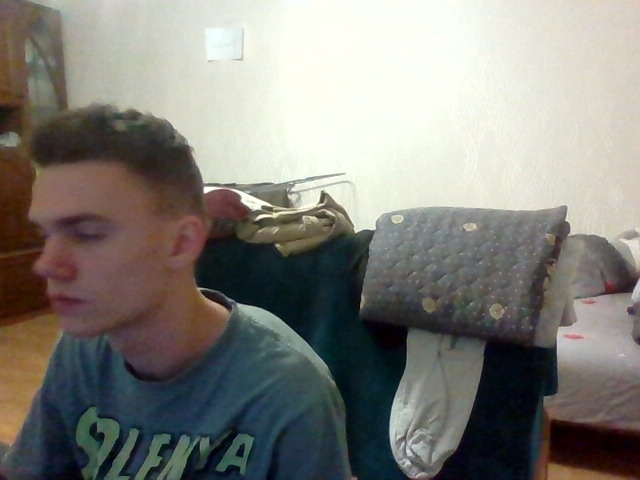
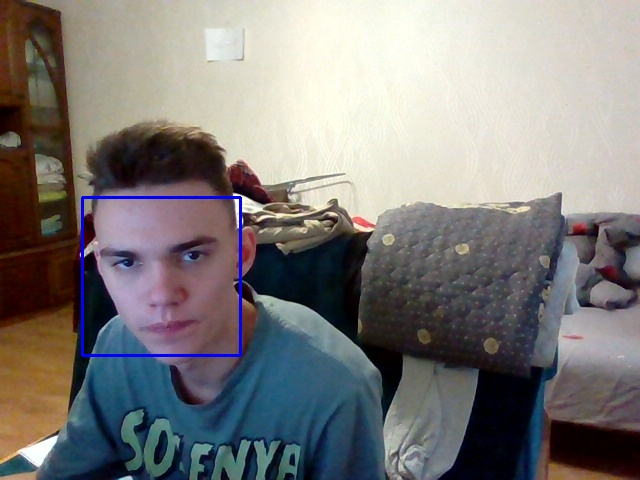
- исправлено окно авторизации: теперь не зависает при выключенном сервере
- добавлено уведомление ядра приложения охранника об потери сигнала от сервера

diff --git a/clientGuard/networkModule.py b/clientGuard/networkModule.py
@@ -16,10 +16,18 @@ import json
 
 class Socket(QObject, Thread):
     importData = pyqtSignal(QPixmap, QPixmap)
-    initUserInfo = pyqtSignal(bool) # результат авторизации пользователя
-    initCamerasInfo = pyqtSignal(bool)  # результы поиска разрешенных камер
 
+    # результат авторизации пользователя
+    initUserInfo = pyqtSignal(bool)
+
+    # результы поиска разрешенных камер
+    initCamerasInfo = pyqtSignal(bool)
+
+    # запрос ядру на принятие изображений с сервера
     startAcceptVideo = pyqtSignal()
+
+    # сообщаем ядру о потери соединения
+    disconnectServer = pyqtSignal()
 
     hVideo = 480
     wVideo = 640
@@ -68,7 +76,6 @@ class Socket(QObject, Thread):
                 # подготовка к принятию видео
 
                 # запускаем прием видео
-                # self.run()
                 self.startAcceptVideo.emit()
 
             else:
@@ -78,6 +85,7 @@ class Socket(QObject, Thread):
             # информиркем ядро приложения об результатах аутентификации
             self.initUserInfo.emit(False)
 
+    # получение изображений от сервера
     def run(self):
         # сообщаем об готовности принимать видео
         self.sendTextData("readyGetVideo")
@@ -86,32 +94,38 @@ class Socket(QObject, Thread):
         while self.__working:
             self.getDataServer()
 
-        print("Сетевой модуль выключен!")
+        print("Принятие изображений прекращено!")
 
     def getDataServer(self):
-        data = self.__clientSocket.recv(self.dataPackageSize + 10)  # self.dataPackageSize
-        # print(len(list(data)))
+        try:
+            data = self.__clientSocket.recv(self.dataPackageSize + 10)
+            data = list(data)
 
-        # data = self.waitDataImage()
+            if (len(data) != self.dataPackageSize):
+                print("потеря данных!")
 
-        data = list(data)
-        if (len(data) != self.dataPackageSize):
-            print("потеря данных!")
+                # запрос следующего изображения
+                self.sendTextData("Get")
+            else:
+                # print("accept!")
+                npImage = numpy.array(data).reshape(self.hVideo, self.wVideo, 3)
+                cv2.imwrite("img1.jpg", npImage)
+                cv2.imwrite("img2.jpg", npImage)
 
-            # запрос следующего изображения
-            self.sendTextData("Get")
-        else:
-            # print("accept!")
-            npImage = numpy.array(data).reshape(self.hVideo, self.wVideo, 3)
-            cv2.imwrite("img1.jpg", npImage)
-            cv2.imwrite("img2.jpg", npImage)
+                pix = QPixmap("img1.jpg")
 
-            pix = QPixmap("img1.jpg")
+                self.importData.emit(pix, pix)
 
-            self.importData.emit(pix, pix)
+                # сообщаем о том, что готовы к след. изображению
+                self.sendTextData("Get")
 
-            # сообщаем о том, что готовы к след. изображению
-            self.sendTextData("Get")
+        except:
+            print("соединение с сервером потеряно!")
+            # сообщаем ядру об потери соединения
+            self.disconnectServer.emit()
+
+            # прекращаем получение данных
+            self.__working = False
 
     def sendTextData(self, textMessage):
         self.__clientSocket.sendall(textMessage.encode("utf-8"))
@@ -125,21 +139,6 @@ class Socket(QObject, Thread):
                 break
             else:
                 return dataServer
-
-    def waitDataImage(self):
-        while True:
-            try:
-                data = self.__clientSocket.recv(self.dataPackageSize + 10)
-            except:
-                print("соединение разорвано2")
-                self.work = False
-                return
-
-            if not data:
-                print("not data!")
-                break
-            else:
-                return data
 
     def stop(self):
         self.__working = False

diff --git a/Server/socketServer.py b/Server/socketServer.py
@@ -109,8 +109,13 @@ class socketServer(QObject, Thread):
                 data = self.waitData(self.__GuardClients[-1].getSocket())
                 print(data)
                 if (data == "readyGetVideo"):
-                    cap = cameraClient("socket", "login")  # временно!
-                    cap.start()
+
+                    # _________временно!__________________
+                    cap = cameraClient("socket", "login")
+                    cap.start()  # запуск получения данных
+                    # добавление в спиское камер
+                    self.__CameraClients.append(cap)
+                    # ____________________________________
 
                     # оргнизация передача данных из камеры клиенту-охраннику в отдельном потоке
                     newSender = senderViideo(cap, self.__GuardClients[-1])
@@ -158,9 +163,20 @@ class socketServer(QObject, Thread):
 
     def __offClients(self):
         if (len(self.__GuardClients) > 0):
-            for i in range(len(self.__Clients)):
+            # разрушаем каждоного клиента
+            for i in range(len(self.__GuardClients)):
                 self.__GuardClients[i].remove()
-            self.__GuardClients.clear()  # очищаем список клиентов
+
+            # очищаем список клиентов
+            self.__GuardClients.clear()
+
+        if (len(self.__CameraClients) > 0):
+            # разрушаем каждоного клиента
+            for i in range(len(self.__CameraClients)):
+                self.__CameraClients[i].remove()
+
+            # очищаем список клиентов
+            self.__CameraClients.clear()
 
     def __closeSocket(self, socket):
         try:

diff --git a/Server/sendersData.py b/Server/sendersData.py
@@ -8,6 +8,8 @@ import cv2
 
 from Client import typeClient
 
+from processingImages import processingImage
+
 class senderViideo(QObject, Thread):
     disabled = pyqtSignal(str, int)  # информируем об разрыве соединения
 
@@ -32,8 +34,12 @@ class senderViideo(QObject, Thread):
         sys.exit()
 
     def sendImagesData(self):
-        # print("send")
         image = self.cap.read()
+
+        # сразу же обрабатываем изображение (так как уже в отдельном потоке)
+        image = processingImage(image)
+
+        # подгоняем под размер для интерфейса ПО охранника
         image = cv2.resize(image, dsize=(640, 480))
 
         # преобразуем в одномерный numpy массив
@@ -41,8 +47,8 @@ class senderViideo(QObject, Thread):
 
         try:
             self.__clientGuard.getSocket().send(outArr)
+        # соединение разорвано
         except:
-            print("соединение разорвано1")
             self.disabled.emit(str(self.__clientGuard.getLoginGuard()), typeClient.Guard.value)
 
     def waitData(self):
@@ -51,8 +57,8 @@ class senderViideo(QObject, Thread):
                 dataUser = self.__clientGuard.getSocket().recv(200)
                 dataUser = dataUser.decode("utf-8")
 
+            # соединение разорвано
             except:
-                print("соединение разорвано2")
                 self.disabled.emit(str(self.__clientGuard.getLoginGuard()), typeClient.Guard.value)
 
                 self.work = False

diff --git a/clientGuard/coreApplication.py b/clientGuard/coreApplication.py
@@ -4,6 +4,8 @@ from networkModule import Socket
 from PyQt5.QtCore import QObject, pyqtSignal
 from PyQt5.QtGui import QImage, QPixmap
 
+from PyQt5.QtWidgets import QMessageBox
+
 class Core(QObject):
     # run = pyqtSignal()
 
@@ -27,6 +29,10 @@ class Core(QObject):
         self.netModule.initUserInfo[bool].connect(self.authorizationUser)
         self.netModule.importData[QPixmap, QPixmap].connect(self.getDataServer)
         self.netModule.startAcceptVideo.connect(self.acceptVideo)
+        self.netModule.disconnectServer.connect(self.eventDisconnectServer)
+
+    def eventDisconnectServer(self):
+        self.guiApp.mainWin.eventDisconnectServer()
 
     def acceptVideo(self):
         print("start accept video!")
@@ -43,10 +49,13 @@ class Core(QObject):
             # закрываем окно авторизации
             self.guiApp.closeInitUserWin()
         else:
-            print("Неверный логин или пароль")
+            QMessageBox.about(self.guiApp.initUserWin, "ошибка аутентификации: ", "Неверный логин или пароль!")
 
     def autheUser(self, host, port, login, password):
-        self.netModule.connectServer(host, port, login, password)
+        try:
+            self.netModule.connectServer(host, port, login, password)
+        except:
+            QMessageBox.about(self.guiApp.initUserWin, "ошибка аутентификации: ", "Cервер по такому адресу не запущен!")
 
     def getDataServer(self, imagePeople, imageCar):
         self.guiApp.mainWin.updateVideoBarrier(imagePeople)

diff --git a/clientGuard/GUI_mainWindow.py b/clientGuard/GUI_mainWindow.py
@@ -4,6 +4,7 @@ from PyQt5 import QtGui, QtWidgets
 from PyQt5.QtWidgets import QHeaderView, QTableWidgetItem
 
 from PyQt5.QtCore import QTimer, QTime
+from PyQt5.QtCore import QSize
 
 from PyQt5.QtGui import QPalette, QBrush, QPixmap, QColor, QImage
 
@@ -70,8 +71,8 @@ class mainWindow(QtWidgets.QWidget, mainWindowUI.Ui_Form):
         
     def updateVideoBarrier(self, pix):
 
-        d = 0.7
-        pix = pix.scaled(pix.width() * d, pix.height() * d)
+        self.d = 0.7
+        pix = pix.scaled(pix.width() * self.d, pix.height() * self.d)
         self.videoPeopleLabel.setPixmap(pix)
         
     def updateTime(self):
@@ -108,7 +109,16 @@ class mainWindow(QtWidgets.QWidget, mainWindowUI.Ui_Form):
             self.openGate.emit()
             self.gate.Open()
             setStyleButton(self.openGateButton, [0, 200, 0], "Закрыть")
-            
-        
-        
-        
+
+    # сообщаем пользователю об потери соединения
+    def eventDisconnectServer(self):
+        self.videoPeopleLabel.clear()
+        self.videoCarLabel.clear()
+
+        self.gifNoise = QtGui.QMovie("noSiganlGif.gif")
+        self.gifNoise.setScaledSize(QSize(self.d*640, self.d*480))
+
+        self.videoCarLabel.setMovie(self.gifNoise)
+        self.videoPeopleLabel.setMovie(self.gifNoise)
+
+        self.gifNoise.start()

diff --git a/Server/Client.py b/Server/Client.py
@@ -8,6 +8,9 @@ import enum
 
 import cv2  # это временно!!!
 
+import os
+import sys
+
 # типы клиентов
 class typeClient(enum.Enum):
     Guard = 1
@@ -78,6 +81,11 @@ class cameraClient(QObject, Thread):
         self.cap = cv2.VideoCapture(0) # временно!
         _, self.__currentImage = self.cap.read()
 
+        self.__work = True
+
+    def remove(self):
+        self.__work = False
+
     def read(self):
         return self.__currentImage
 
@@ -86,8 +94,12 @@ class cameraClient(QObject, Thread):
 
     def run(self):
         # получение данных
-        while True:
+        while self.__work:
             try:
                 self.acceptImage()
+
             except:
                 print("данные с камеры не получены!")
+
+        print("получение данных с камеры прекращено")
+        sys.exit()

diff --git a/Server/processingImages.py b/Server/processingImages.py
@@ -1,0 +1,20 @@
+import os
+import cv2
+
+def processingImage(image):
+    # преобразуем изображение к оттенкам серого
+    image_gray = cv2.cvtColor(image, cv2.COLOR_BGR2GRAY)
+
+    # инициализировать распознаватель лиц (каскад Хаара по умолчанию)
+    nameFile = 'frontalface_default.xml'
+    dataDir = os.getcwd() + "/neuralNetwork/data"
+    face_cascade = cv2.CascadeClassifier(dataDir + '/haarcascades/' + nameFile)
+
+    # обнаружение всех лиц на изображении
+    faces = face_cascade.detectMultiScale(image_gray)
+
+    # для всех обнаруженных лиц рисуем синий квадрат
+    for x, y, width, height in faces:
+        cv2.rectangle(image, (x, y), (x + width, y + height), color=(255, 0, 0), thickness=2)
+
+    return image
